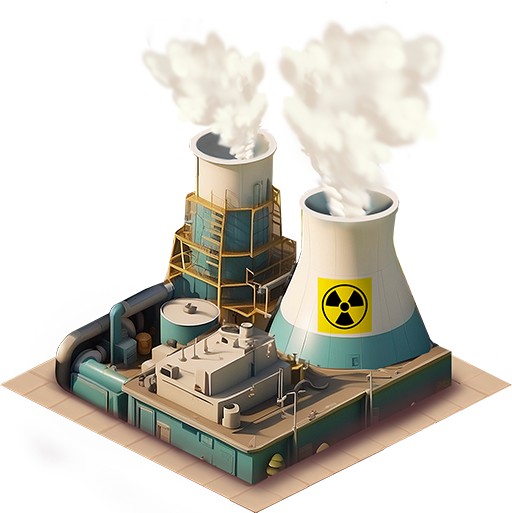
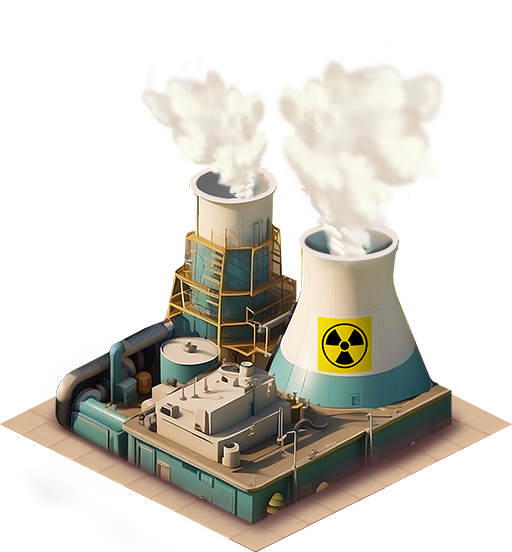
feat: update buildings

Changed region(s): [[0.0, 0.0312, 1.0, 0.9981], [0.5312, 0.9669, 0.5625, 0.9981]]

diff --git a/lib/common/components/building_component.dart b/lib/common/components/building_component.dart
@@ -2,6 +2,8 @@ import 'dart:async';
 
 import 'package:big_apple/common/components/world/main_world.dart';
 import 'package:big_apple/common/components/zone_component.dart';
+import 'package:big_apple/data/dto/enum/manufactory_type.dart';
+import 'package:big_apple/data/dto/enum/road_type.dart';
 import 'package:flutter/material.dart';
 
 import 'package:flame/components.dart';
@@ -31,7 +33,8 @@ class BuildingComponent extends SpriteComponent
     super.anchor = Anchor.center,
     bool markAsBuild = false,
   }) : super(
-          priority: building.coordinates.y.toInt() + 100,
+          priority: building.coordinates.y.toInt() +
+              (building.building.type == ManufactoryType.coalElectricStation ? 100 : 0),
           position: Vector2(building.coordinates.x, building.coordinates.y),
         ) {
     id = building.id;
@@ -70,9 +73,18 @@ class BuildingComponent extends SpriteComponent
 
   @override
   FutureOr<void> onLoad() async {
-    size = Vector2(256, 178);
     sprite = Sprite(game.images.fromCache(building.building.imageDone()));
-    position = Vector2(building.coordinates.x, building.coordinates.y);
+
+    if (building.building.type == ManufactoryType.coalElectricStation) {
+      size = Vector2(512, 533);
+      position = Vector2(building.coordinates.x, building.coordinates.y - 54);
+    } else if (building.building.type == RoadType.road) {
+      size = Vector2(256, 133);
+      position = Vector2(building.coordinates.x, building.coordinates.y + 28);
+    } else {
+      size = Vector2(256, 256);
+      position = Vector2(building.coordinates.x, building.coordinates.y - 45);
+    }
 
     return super.onLoad();
   }
@@ -119,8 +131,12 @@ class BuildingComponent extends SpriteComponent
     ZoneComponent? zone = world.getZoneByVector2(newPosition);
 
     if (zone?.isAvailable == true) {
+      if (building.building.type == RoadType.road) {
+        position = newPosition + Vector2(0, 28);
+      } else {
+        position = newPosition - Vector2(0, 45);
+      }
       priority = position.y.toInt() + 100;
-      position = newPosition;
       if (_isBuild) {
         zone?.changeAvailability(false);
         ZoneComponent? previousZone = world.getZoneByVector2(positionBeforeDrag!);

diff --git a/lib/data/dto/apartment.dart b/lib/data/dto/apartment.dart
@@ -182,7 +182,7 @@ class Apartment extends Building<ApartmentType> {
         path = Assets.images.apartmentLvl1.path;
         break;
       case ApartmentType.skyscraper:
-        path = Assets.images.apartmentLvl1.path;
+        path = Assets.images.scyscraperLvl1.path;
         break;
     }
     if (replacePath) return path.removeAssetsImagesPath();
@@ -194,13 +194,13 @@ class Apartment extends Building<ApartmentType> {
     String path = '';
     switch (type) {
       case ApartmentType.house:
-        path = Assets.images.houseLvl1Half.path;
+        path = Assets.images.initialBuilding1x1.path;
         break;
       case ApartmentType.apartment:
-        path = Assets.images.apartmentLvl1.path;
+        path = Assets.images.initialBuilding2x1.path;
         break;
       case ApartmentType.skyscraper:
-        path = Assets.images.apartmentLvl1.path;
+        path = Assets.images.initialBuilding2x2.path;
         break;
     }
     if (replacePath) return path.removeAssetsImagesPath();
@@ -212,13 +212,13 @@ class Apartment extends Building<ApartmentType> {
     String path = '';
     switch (type) {
       case ApartmentType.house:
-        path = Assets.images.initialBuilding1On1.path;
+        path = Assets.images.initialBuilding1x1.path;
         break;
       case ApartmentType.apartment:
-        path = Assets.images.apartmentLvl1.path;
+        path = Assets.images.initialBuilding2x1.path;
         break;
       case ApartmentType.skyscraper:
-        path = Assets.images.apartmentLvl1.path;
+        path = Assets.images.initialBuilding2x2.path;
         break;
     }
     if (replacePath) return path.removeAssetsImagesPath();

diff --git a/lib/data/dto/manufactory.dart b/lib/data/dto/manufactory.dart
@@ -194,13 +194,13 @@ class Manufactory extends Building<ManufactoryType> {
     String path = '';
     switch (type) {
       case ManufactoryType.coalElectricStation:
-        path = Assets.images.coalLvl1.path;
+        path = Assets.images.initialBuilding2x2.path;
         break;
       case ManufactoryType.atomicElectricityStation:
-        path = Assets.images.atomLvl1.path;
+        path = Assets.images.initialBuilding2x2.path;
         break;
       case ManufactoryType.windElectricityStation:
-        path = Assets.images.electricityLvl1.path;
+        path = Assets.images.initialBuilding1x1.path;
         break;
     }
     if (replacePath) return path.removeAssetsImagesPath();
@@ -212,13 +212,13 @@ class Manufactory extends Building<ManufactoryType> {
     String path = '';
     switch (type) {
       case ManufactoryType.coalElectricStation:
-        path = Assets.images.coalLvl1.path;
+        path = Assets.images.initialBuilding2x2.path;
         break;
       case ManufactoryType.atomicElectricityStation:
-        path = Assets.images.atomLvl1.path;
+        path = Assets.images.initialBuilding2x2.path;
         break;
       case ManufactoryType.windElectricityStation:
-        path = Assets.images.initialBuilding1On1.path;
+        path = Assets.images.initialBuilding1x1.path;
         break;
     }
     if (replacePath) return path.removeAssetsImagesPath();

diff --git a/lib/data/dto/commercial.dart b/lib/data/dto/commercial.dart
@@ -210,13 +210,13 @@ class Commercial extends Building<CommercialType> {
     String path = '';
     switch (type) {
       case CommercialType.store:
-        path = Assets.images.initialBuilding1On1.path;
+        path = Assets.images.initialBuilding1x1.path;
         break;
       case CommercialType.market:
-        path = Assets.images.marketLvl1.path;
+        path = Assets.images.initialBuilding2x1.path;
         break;
       case CommercialType.cityMall:
-        path = Assets.images.mallLvl1.path;
+        path = Assets.images.initialBuilding2x2.path;
         break;
     }
     if (replacePath) return path.removeAssetsImagesPath();
@@ -228,13 +228,13 @@ class Commercial extends Building<CommercialType> {
     String path = '';
     switch (type) {
       case CommercialType.store:
-        path = Assets.images.initialBuilding1On1.path;
+        path = Assets.images.initialBuilding1x1.path;
         break;
       case CommercialType.market:
-        path = Assets.images.marketLvl1.path;
+        path = Assets.images.initialBuilding2x1.path;
         break;
       case CommercialType.cityMall:
-        path = Assets.images.mallLvl1.path;
+        path = Assets.images.initialBuilding2x2.path;
         break;
     }
     if (replacePath) return path.removeAssetsImagesPath();

diff --git a/lib/data/dto/road.dart b/lib/data/dto/road.dart
@@ -76,7 +76,7 @@ class Road extends Building<RoadType> {
     String path = '';
     switch (type) {
       case RoadType.road:
-        path = Assets.images.houseLvl1.path;
+        path = Assets.images.road.path;
         break;
     }
     if (replacePath) return path.removeAssetsImagesPath();
@@ -88,7 +88,7 @@ class Road extends Building<RoadType> {
     String path = '';
     switch (type) {
       case RoadType.road:
-        path = Assets.images.houseLvl1.path;
+        path = Assets.images.road.path;
         break;
     }
     if (replacePath) return path.removeAssetsImagesPath();
@@ -100,7 +100,7 @@ class Road extends Building<RoadType> {
     String path = '';
     switch (type) {
       case RoadType.road:
-        path = Assets.images.houseLvl1.path;
+        path = Assets.images.road.path;
         break;
     }
     if (replacePath) return path.removeAssetsImagesPath();

diff --git a/lib/common/components/port_component.dart b/lib/common/components/port_component.dart
@@ -11,6 +11,7 @@ class PortComponent extends SpriteComponent with HasGameReference<BigAppleGame>,
   FutureOr<void> onLoad() {
     size = Vector2(937, 557);
     position = Vector2(128, 6826);
+    priority = position.y.toInt() + 100;
     sprite = Sprite(game.images.fromCache(Assets.images.portLvl3.asset()));
     return super.onLoad();
   }

diff --git a/lib/di/modules/app_write_module.dart b/lib/di/modules/app_write_module.dart
@@ -1,5 +1,5 @@
 import 'package:appwrite/appwrite.dart';
-import 'package:big_apple/common/environments/app_environment.dart';
+import 'package:big_apple/common/components/environments/app_environment.dart';
 import 'package:injectable/injectable.dart';
 
 @module

diff --git a/lib/common/components/environments/production_environment.dart b/lib/common/components/environments/production_environment.dart
@@ -1,6 +1,6 @@
 import 'package:injectable/injectable.dart';
 
-import 'package:big_apple/common/environments/app_environment.dart';
+import 'package:big_apple/common/components/environments/app_environment.dart';
 
 @prod
 @LazySingleton(as: AppEnvironment)
